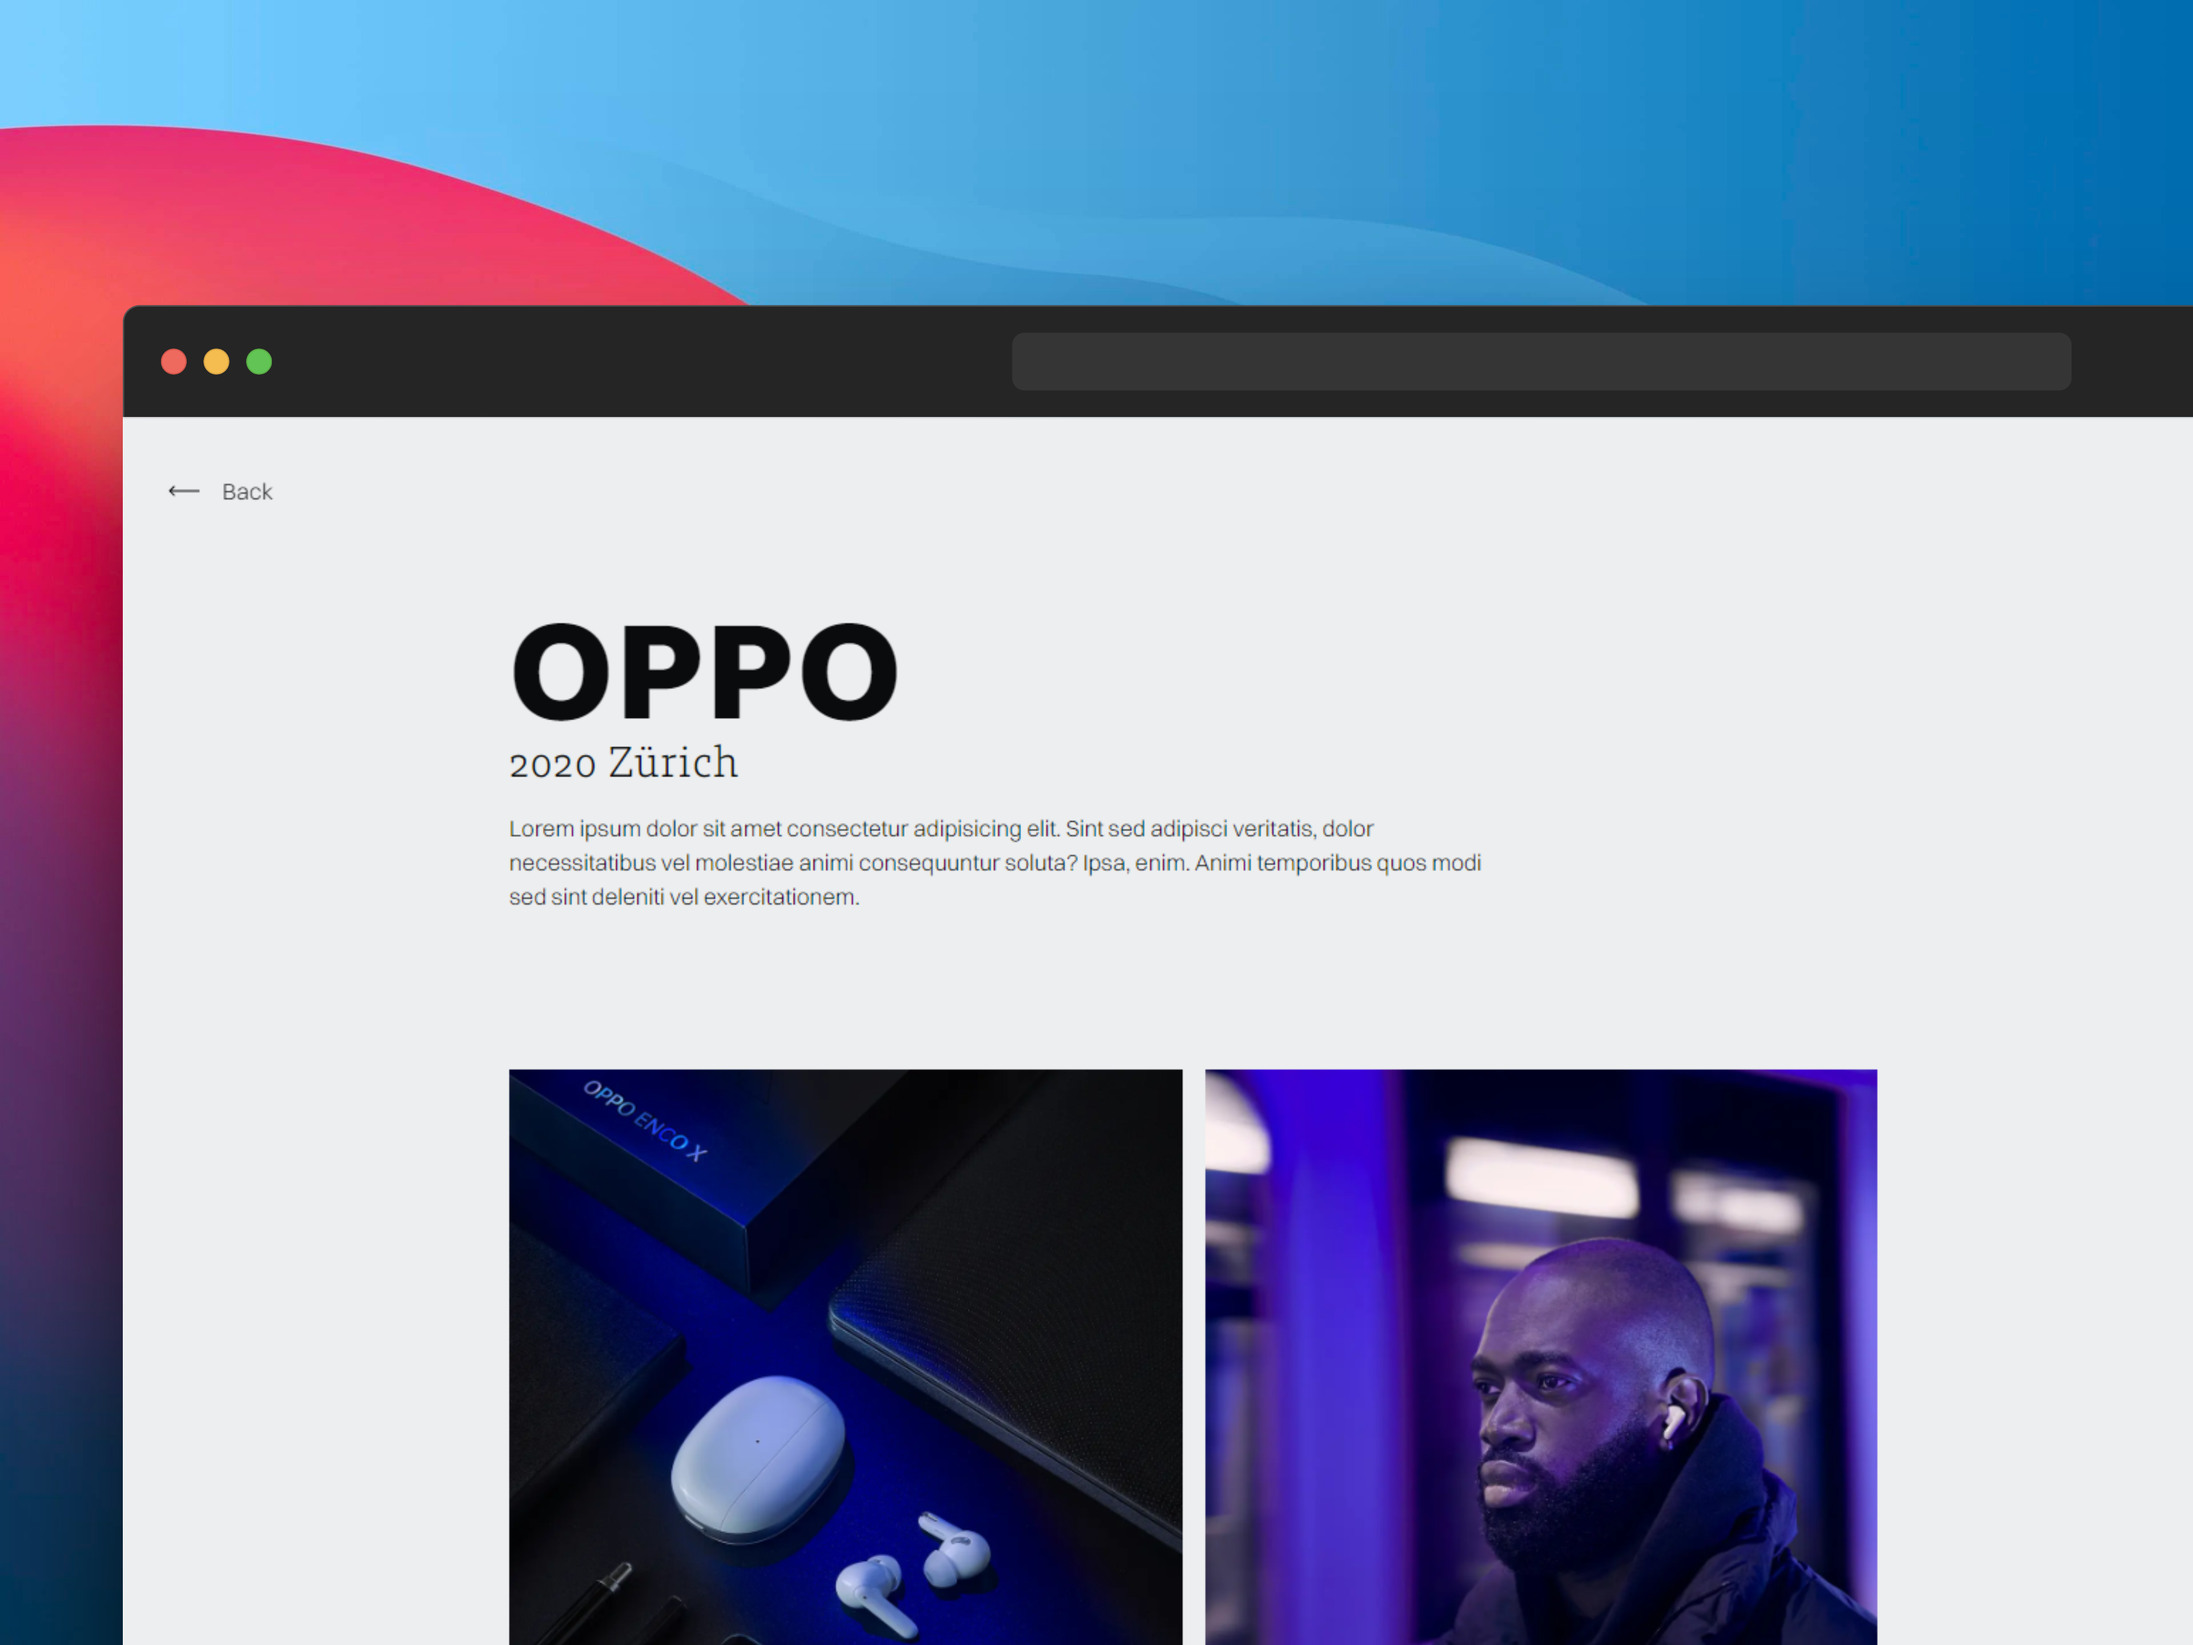
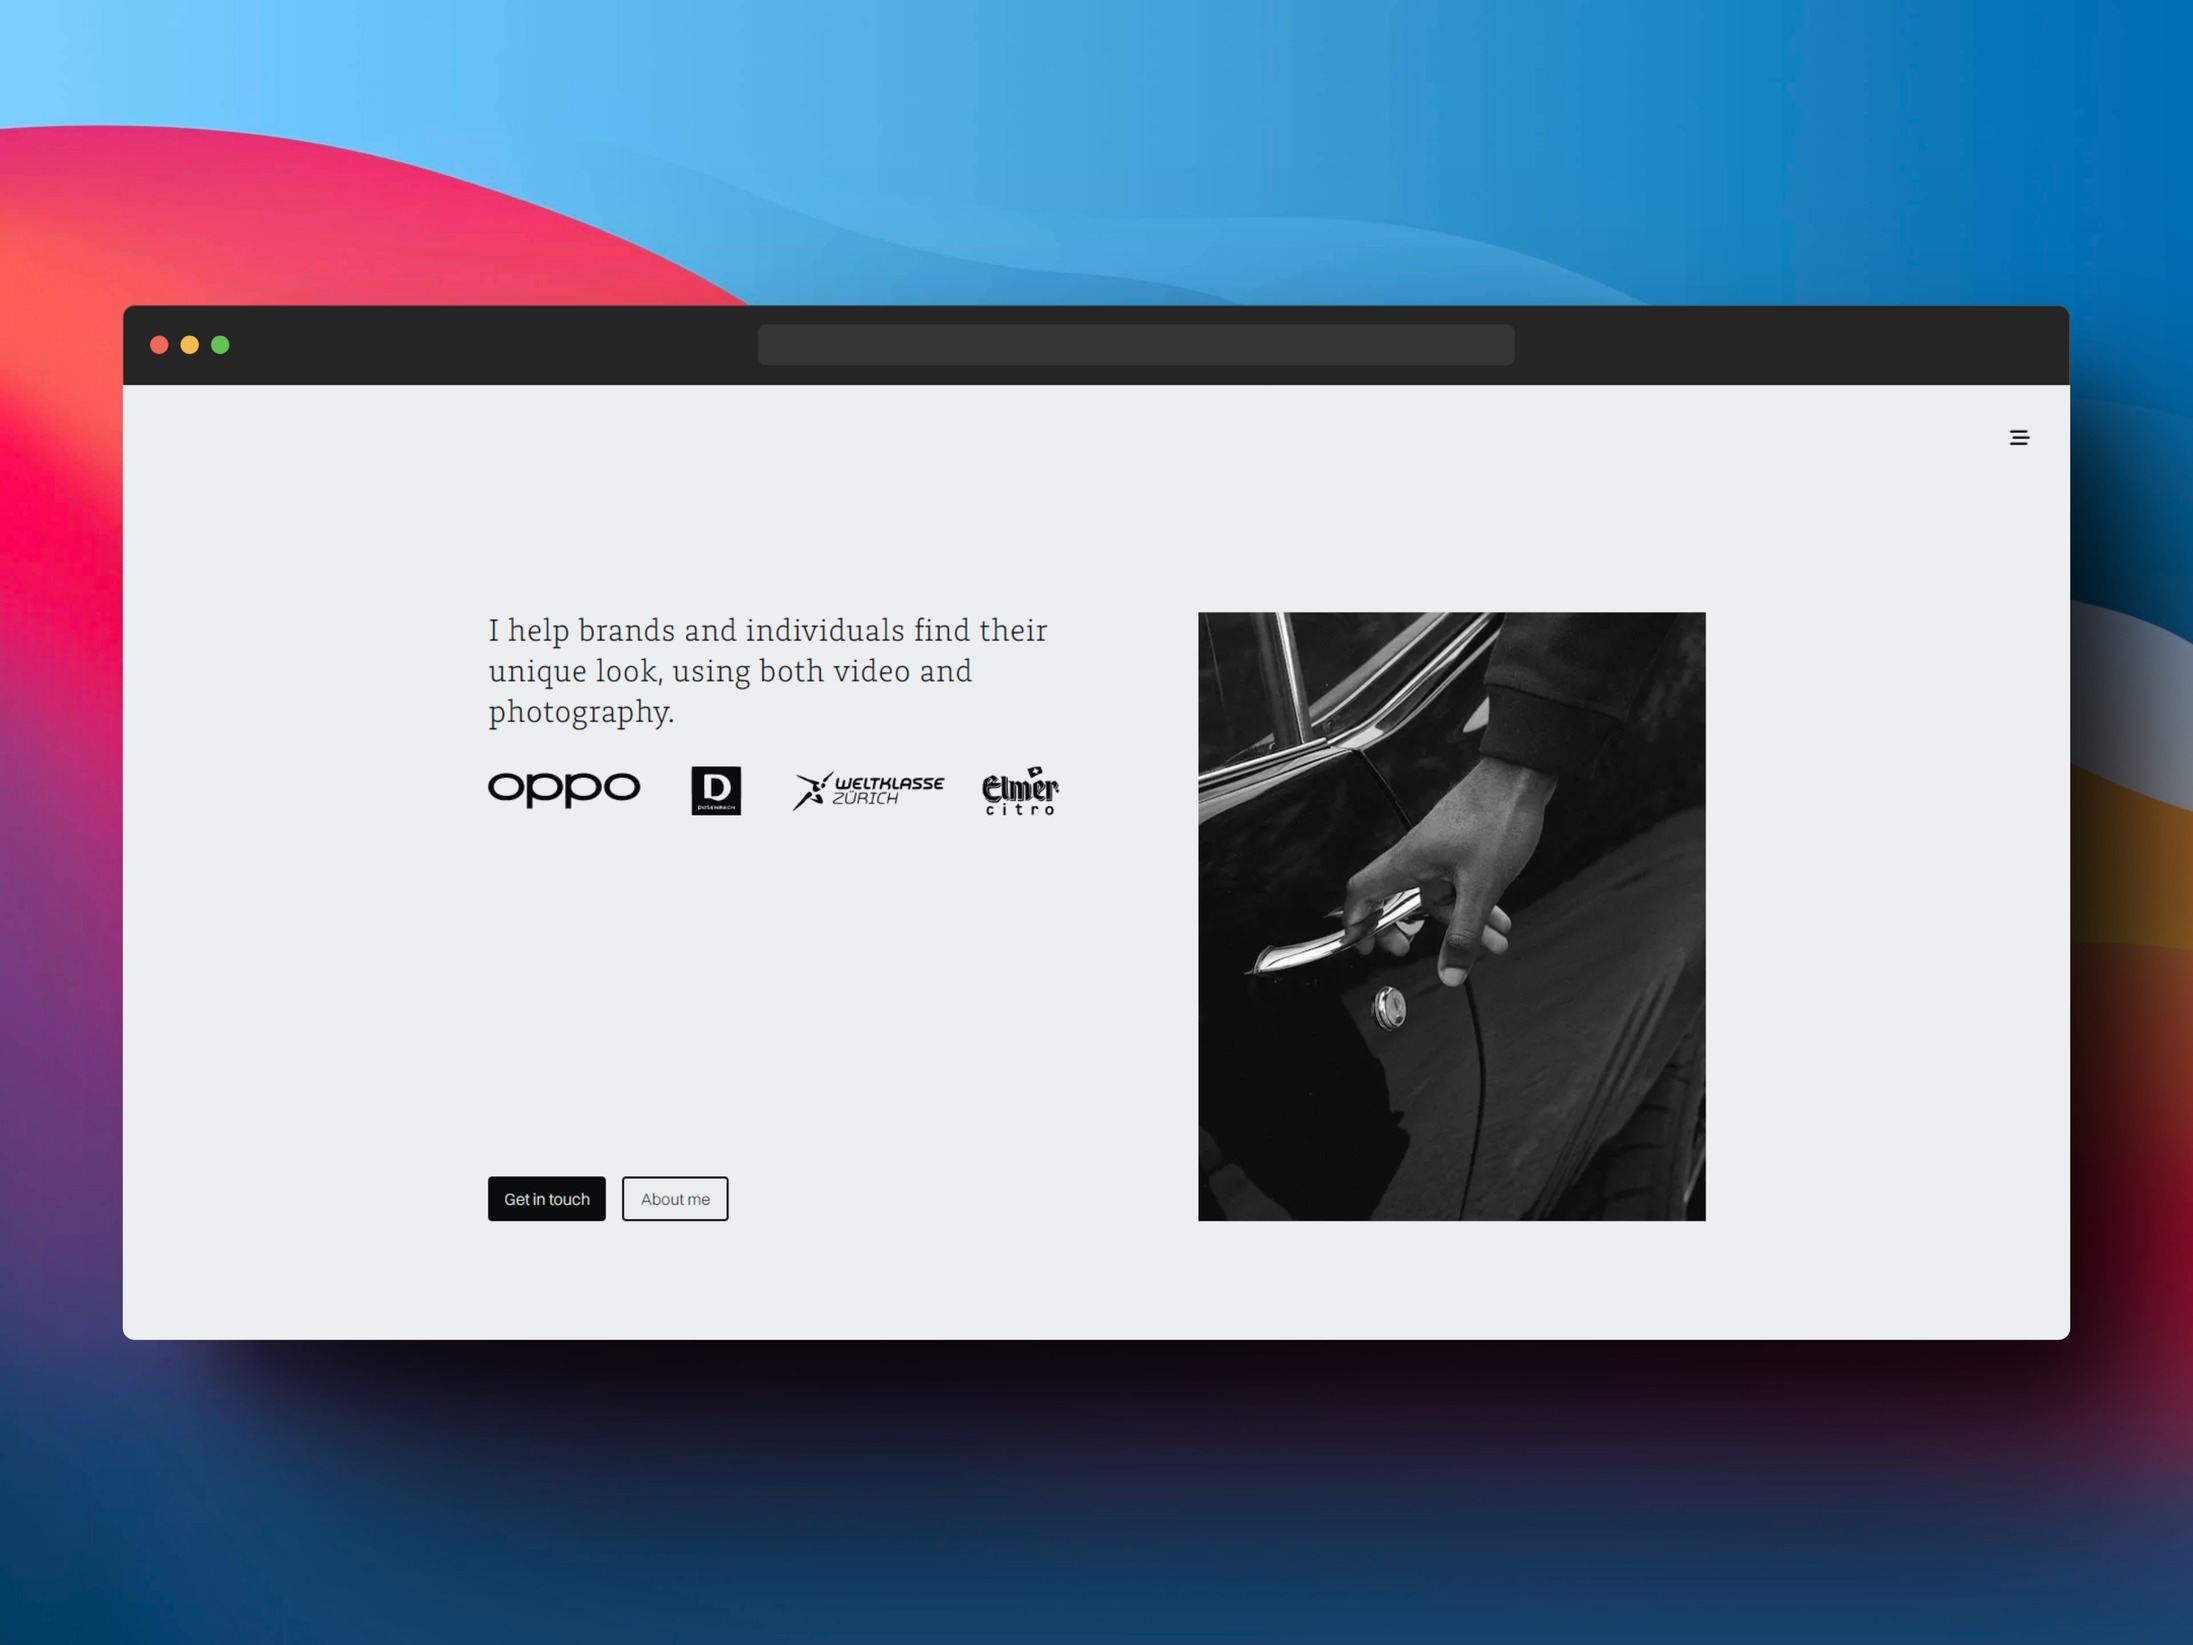
Added buttons, content sections, blog page and improved copy.

diff --git a/data.ts b/data.ts
@@ -19,11 +19,14 @@ export type Page = {
   title: string;
   subtitle: string;
   desciption: string;
+  technologies?: string;
+  responsibilities?: string;
   date: string;
   header: string;
   images?: StaticImageData[];
   github?: string;
   website?: string;
+  buttonText?: string;
 };
 
 const stakenewImages = [
@@ -56,29 +59,47 @@ const data = {
         "I design visually striking, unique web experiences. I portray my client's vision in the best light using performant web pages.",
       date: "2023",
       header: "Portfolio",
-      imageFolder: "/public/noel",
+      website: "mailto:hello@noelcserepy.com?subject=Hi Noël, let's work together",
+      buttonText: "Let's Talk",
+      github: "https://github.com/noelcserepy/"
     },
     {
       title: "Stake.New",
       subtitle: "Staking Platform",
       desciption:
-        "I design visually striking, unique web experiences. I portray my client's vision in the best light using performant web pages.",
+      "Stake.New is an interactive web-based platform designed to make staking on the Aptos blockchain simple. Powered by the Nuxt and Vue.js, the application seamlessly connects users with leading Validators on the Aptos network, providing a comprehensive solution to stake with all their favorite Aptos wallets.",
+      technologies: "Nuxt.js, Vue.js, TypeScript, TailwindCSS, Aptos SDK, Web3.js",
+      responsibilities: "UI/UX Design, Frontend Development, Wallet Integrations, Blockchain Interfacing, State Management",
       date: "2023",
       header: "Project 1",
       images: stakenewImages,
       github: "",
-      website: "",
+      website: "https://stake.new/",
+      buttonText: "View Project",
     },
     {
       title: "Nakarin",
       subtitle: "Photography Portfolio",
       desciption:
-        "I design visually striking, unique web experiences. I portray my client's vision in the best light using performant web pages.",
+        "Nakarin, a captivating portfolio website, is designed and developed exclusively for the professional photographer Nakarin Saisorn. Created with a clear focus on visual artistry and aesthetic appeal, Nakarin exhibits a balance between showcasing film and photography projects.",
+      technologies: "Next.js, TypeScript, TailwindCSS, Framer Motion",
+      responsibilities: "UI/UX Design, Frontend Development, Responsive Design, SEO",
       date: "2023",
       header: "Project 2",
       images: nakarinImages,
       github: "https://github.com/noelcserepy/nakarin",
       website: "https://nakarin.vercel.app/",
+      buttonText: "View Project",
+    },
+    {
+      title: "Blog",
+      subtitle: "Personal Blog",
+      desciption:
+        "My personal blog is a place where I share my thoughts on web development, design, and other topics that interest me.",
+      date: "2022",
+      header: "Blog",
+      website: "https://blog.noelcserepy.com/",
+      buttonText: "View Blog",
     },
   ],
 };

diff --git a/components/main/PageContent.tsx b/components/main/PageContent.tsx
@@ -7,11 +7,12 @@ import {
   useTransform,
 } from "framer-motion";
 import { type Page } from "data";
-import Clickable from "components/ui/Clickable";
+import Upper from "components/ui/Upper";
 import H1 from "components/ui/H1";
 import H2 from "components/ui/H2";
 import Image, { type StaticImageData } from "next/image";
 import { type MouseEvent, useState, useEffect } from "react";
+import UpperSmall from "components/ui/UpperSmall";
 
 const contentVariants = {
   hidden: {
@@ -123,13 +124,49 @@ function PageContent({
       exit="exit"
     >
       <motion.div className="flex h-full w-full flex-col justify-between">
-        <Clickable>{page.header}</Clickable>
-        <div className="flex w-3/5 flex-col space-y-6">
-          <H1>{page.title}</H1>
-          <H2>{page.subtitle}</H2>
-          <p>{page.desciption}</p>
+        <Upper>{page.header}</Upper>
+        <div className="flex w-3/5 flex-col space-y-8">
+          <div className="flex flex-col space-y-2">
+            <H1>{page.title}</H1>
+            <H2>{page.subtitle}</H2>
+          </div>
+          <div className="flex flex-col space-y-2">
+            {(page.technologies || page.responsibilities) && (
+              <UpperSmall>Description</UpperSmall>
+            )}
+            <p>{page.desciption}</p>
+          </div>
+          {page.responsibilities && (
+            <div className="flex flex-col space-y-2">
+              <UpperSmall>Responsibilities</UpperSmall>
+              <p>{page.responsibilities}</p>
+            </div>
+          )}
+          {page.technologies && (
+            <div className="flex flex-col space-y-2">
+              <UpperSmall>Technologies</UpperSmall>
+              <p>{page.technologies}</p>
+            </div>
+          )}
+          <div className="flex space-x-2">
+            {page.website && (
+              <a href={page.website} target="_blank" rel="noreferrer">
+                <button className="rounded-md bg-black px-4 py-2 text-white">
+                  {page.buttonText}
+                </button>
+              </a>
+            )}
+
+            {page.github && (
+              <a href={page.github} target="_blank" rel="noreferrer">
+                <button className="rounded-md bg-black px-4 py-2 text-white">
+                  Github
+                </button>
+              </a>
+            )}
+          </div>
         </div>
-        <Clickable>{page.date}</Clickable>
+        <Upper>{page.date}</Upper>
       </motion.div>
       <motion.div className="flex h-full w-40 flex-col justify-between">
         {page.images &&

diff --git a/src/pages/index.tsx b/src/pages/index.tsx
@@ -1,4 +1,4 @@
-import Clickable from "components/ui/Clickable";
+import Upper from "components/ui/Upper";
 import { type NextPage } from "next";
 import Head from "next/head";
 import Link from "next/link";
@@ -112,7 +112,7 @@ const Home: NextPage = () => {
       </Head>
       <nav className="fixed top-0 flex w-screen justify-end p-6 text-dark">
         <Link href="/">
-          <Clickable>{`Let's Talk`}</Clickable>
+          <Upper>{`Let's Talk`}</Upper>
         </Link>
       </nav>
       <main

diff --git a/components/ui/UpperSmall.tsx b/components/ui/UpperSmall.tsx
@@ -1,0 +1,7 @@
+import type { ReactElement } from "react";
+
+function UpperSmall({ children }: { children: ReactElement | string }) {
+  return <span className="text-xs font-bold uppercase">{children}</span>;
+}
+
+export default UpperSmall;

diff --git a/components/ui/Upper.tsx b/components/ui/Upper.tsx
@@ -1,0 +1,7 @@
+import type { ReactElement } from "react";
+
+function Upper({ children }: { children: ReactElement | string }) {
+  return <span className="text-lg uppercase">{children}</span>;
+}
+
+export default Upper;
